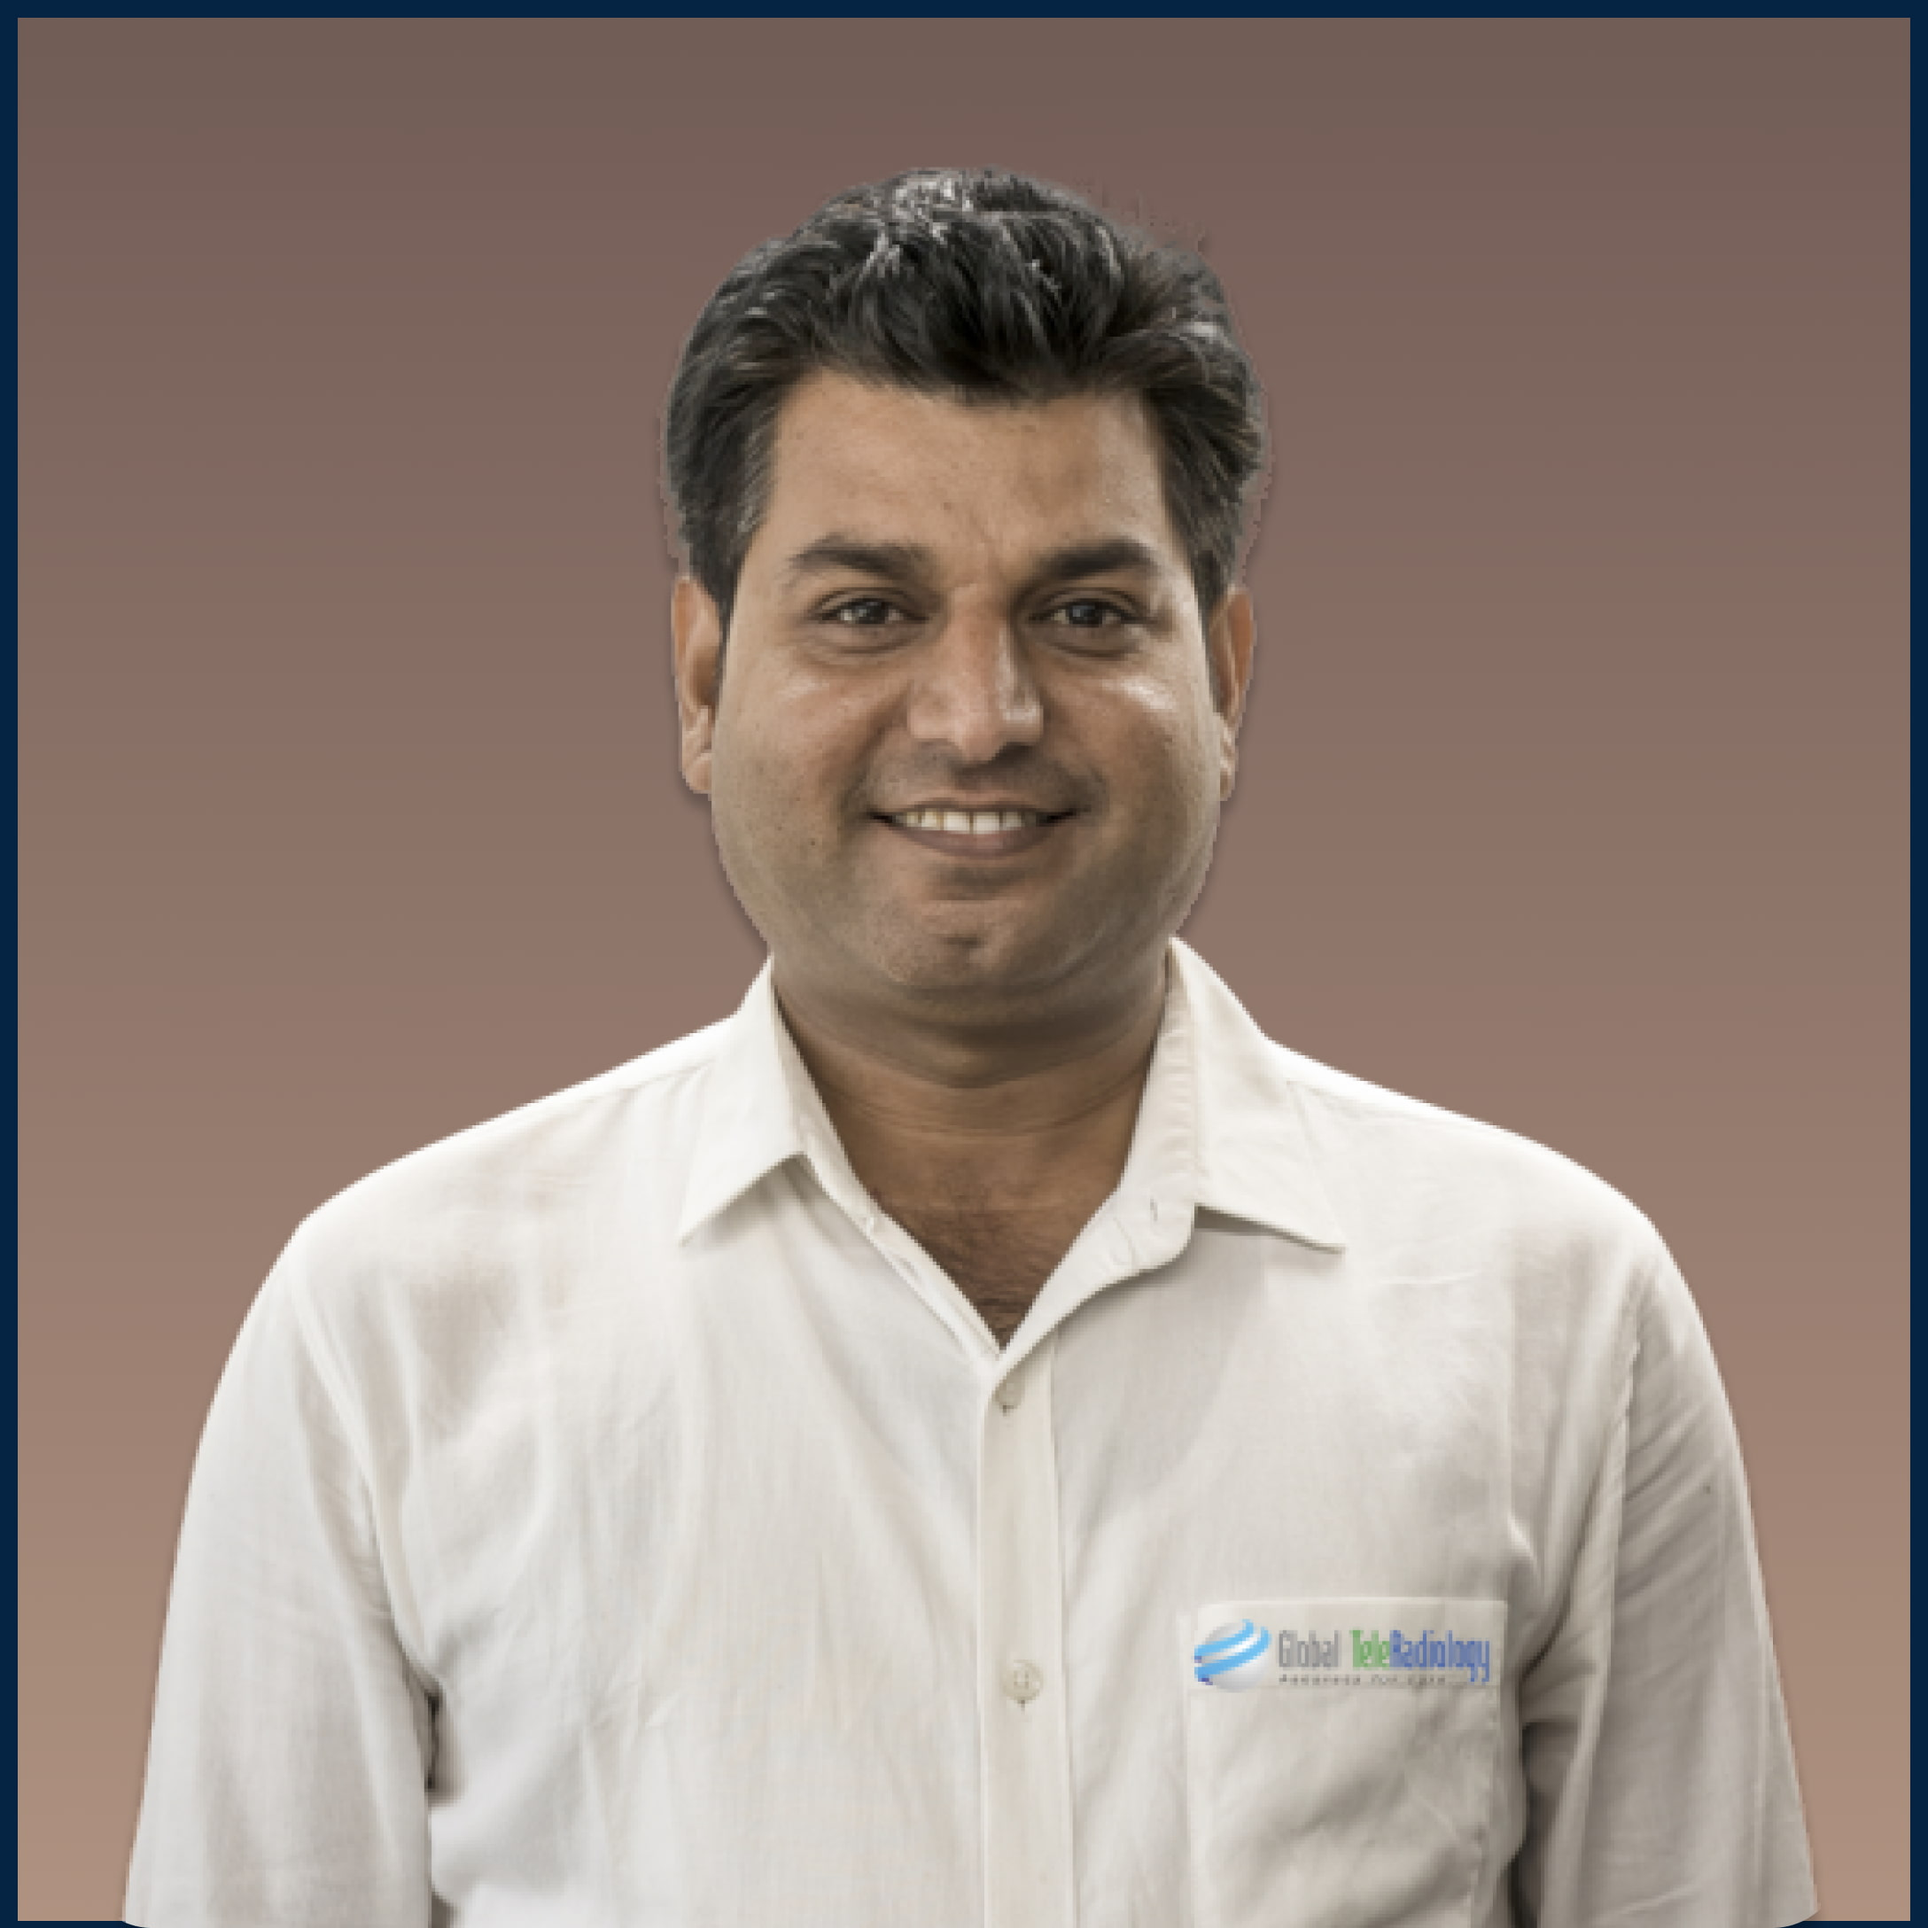
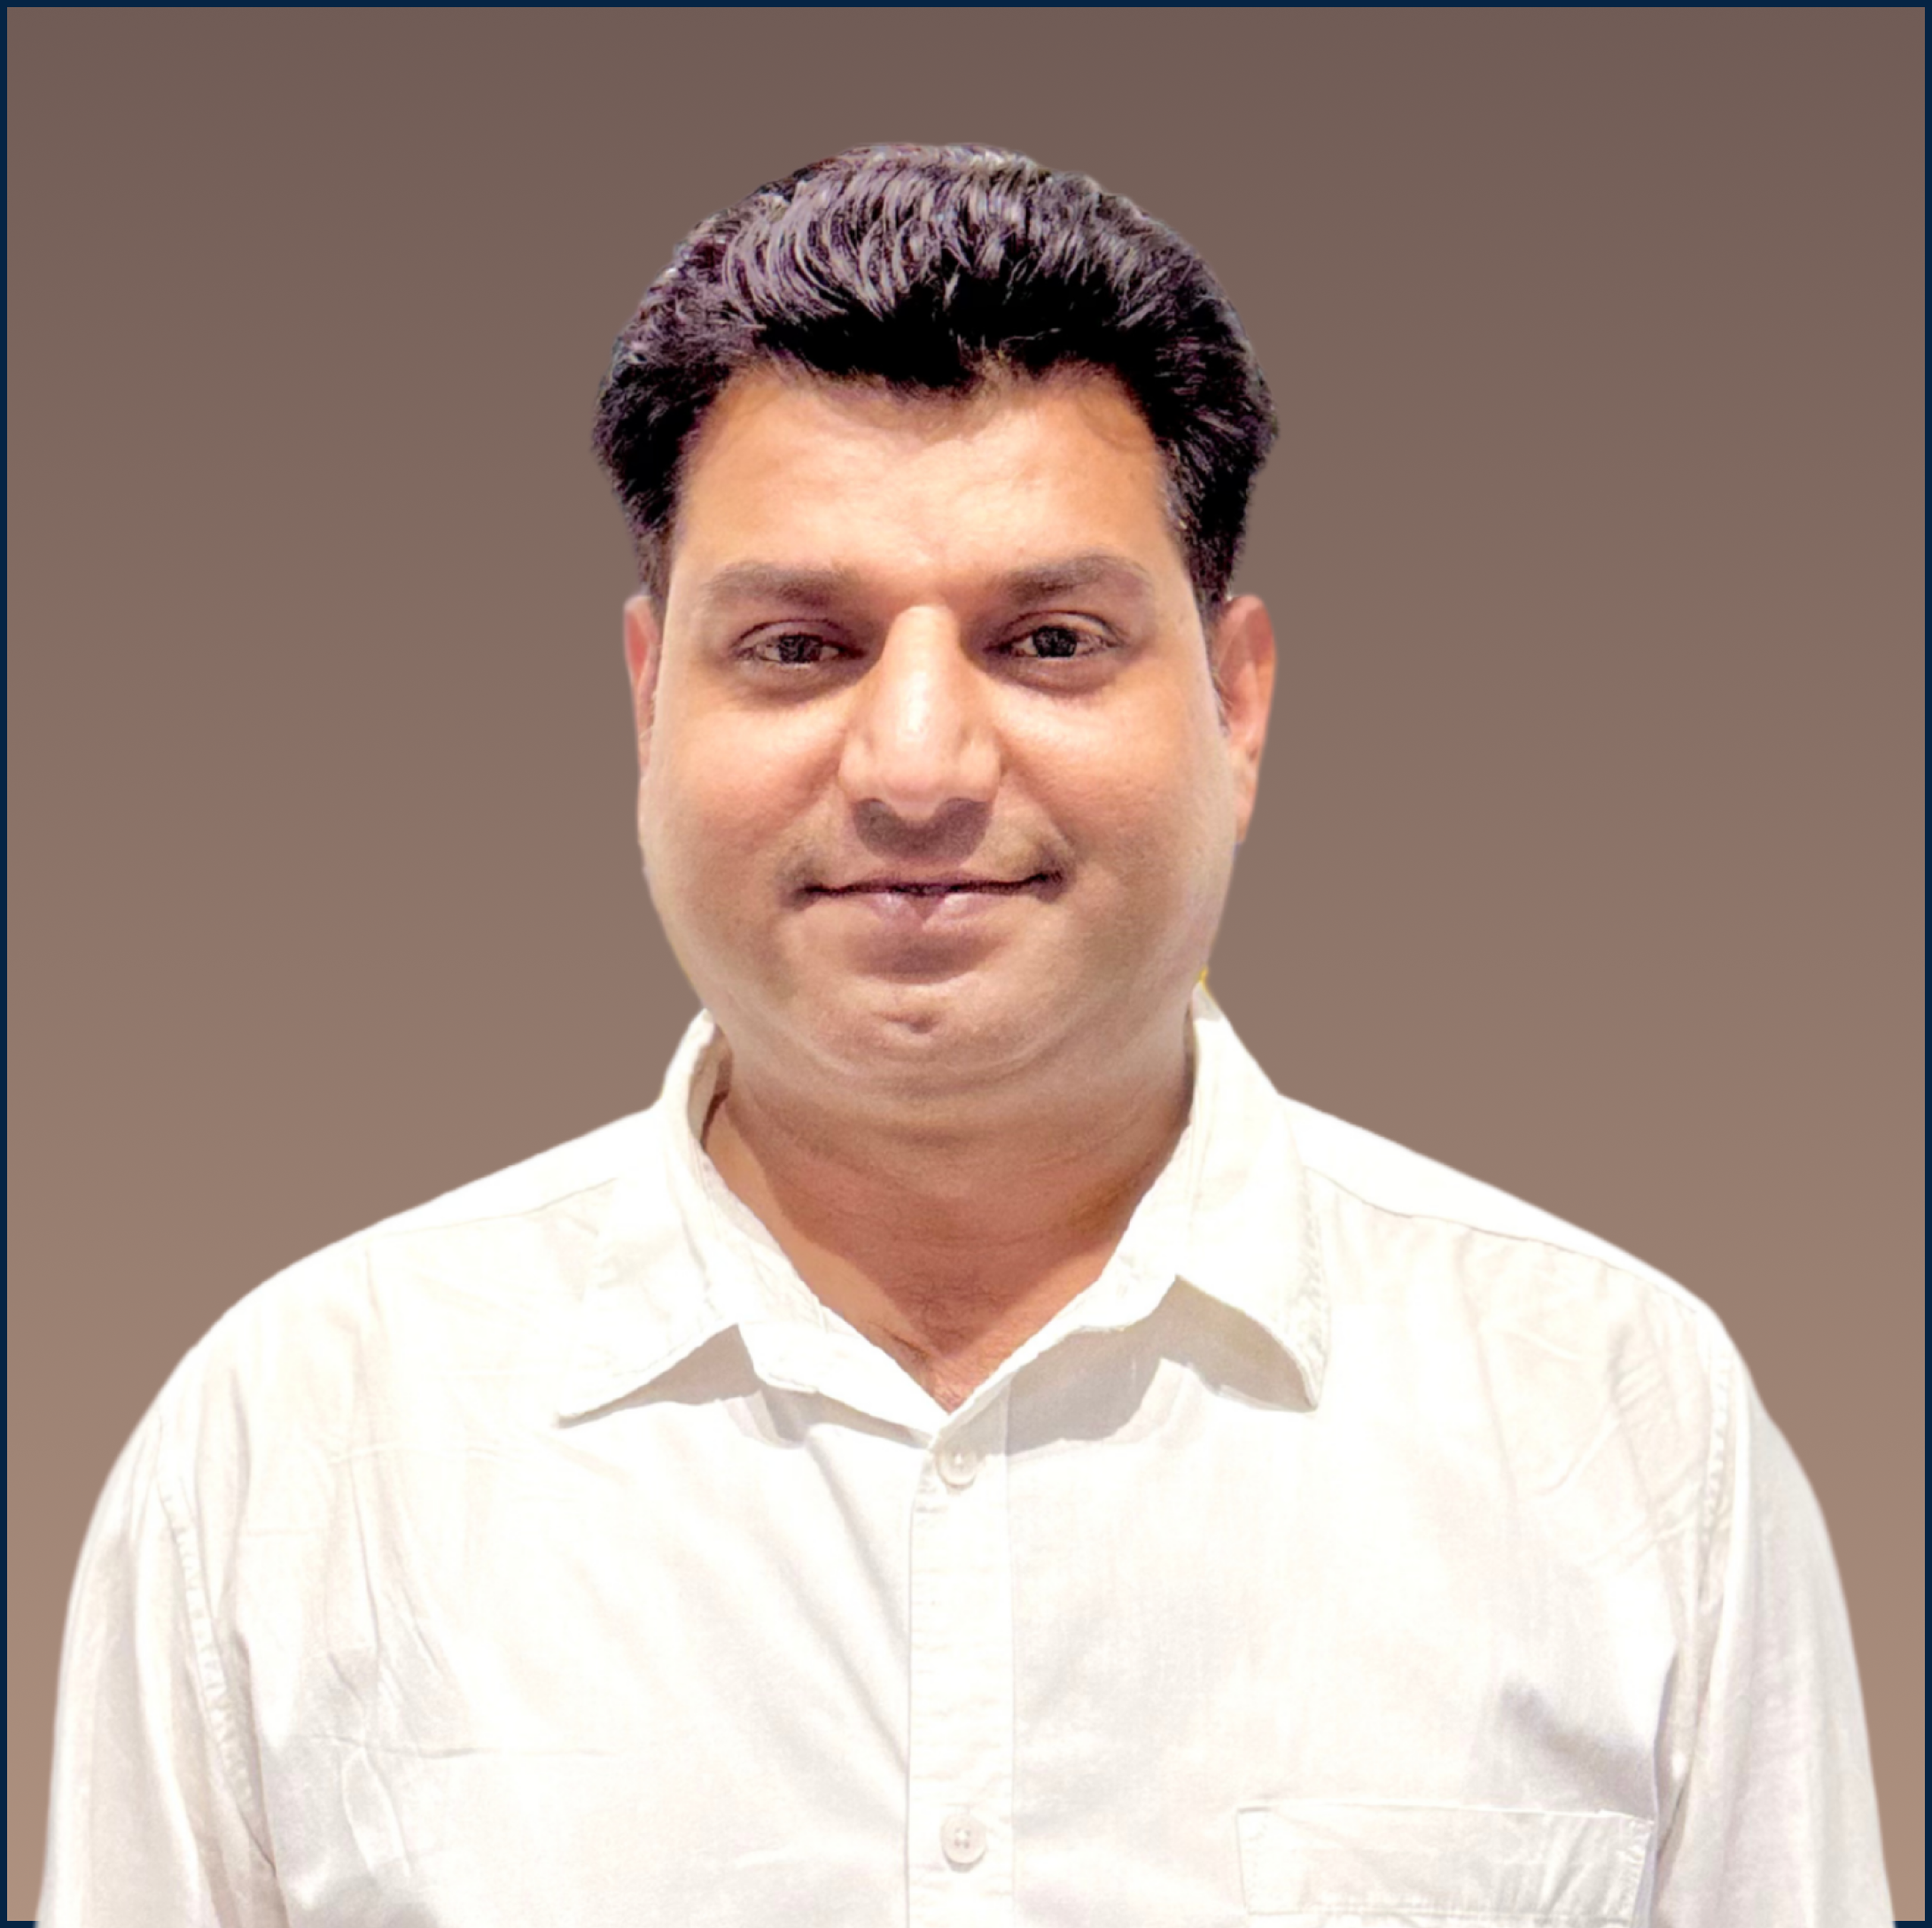
v165

diff --git a/src/components/whygtr2.jsx b/src/components/whygtr2.jsx
@@ -10,7 +10,7 @@ function WhyGtr2() {
     const [text, setText] = useState("Service Quality & TAT");
     const [activeId, setActiveId] = useState("1");
 
-    const handleClick = (id) => {
+    const handleMouseOver = (id) => {
         setActiveId(id);
         switch (id) {
             case "1":
@@ -33,6 +33,11 @@ function WhyGtr2() {
         }
     };
 
+    const handleMouseOut = () => {
+        setActiveId("1");
+        setText("Service Quality & TAT");
+    };
+
     const items = [
         { id: "1", img: p1, label: "Service Quality & TAT" },
         { id: "4", img: p4, label: "Radiology Team" },
@@ -53,7 +58,8 @@ function WhyGtr2() {
                             <div
                                 key={id}
                                 className={`gtr2-grid-item ${activeId === id ? "active" : ""}`}
-                                onClick={() => handleClick(id)}
+                                onMouseOver={() => handleMouseOver(id)}
+                                onMouseOut={handleMouseOut}
                             >
                                 <img src={img} alt={`p${id}`} className="gtr2-grid-img" />
                                 <h1 className="gtr2-grid-text">{label}</h1>
@@ -123,3 +129,4 @@ function WhyGtr2() {
 }
 
 export default WhyGtr2;
+

diff --git a/src/components/whygtr2.css b/src/components/whygtr2.css
@@ -61,6 +61,7 @@
 
 .gtr2-right-box{
     background-color: #F0F0F0;
+    
     font-size: 2rem;
     font-weight: 500;
     color: #0C2752;
